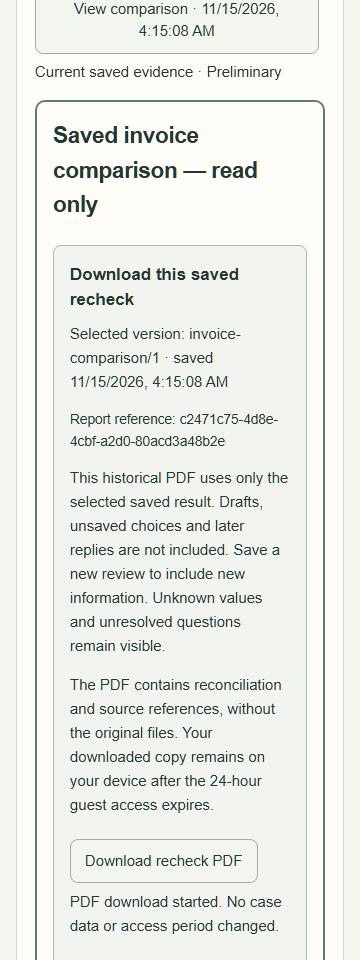
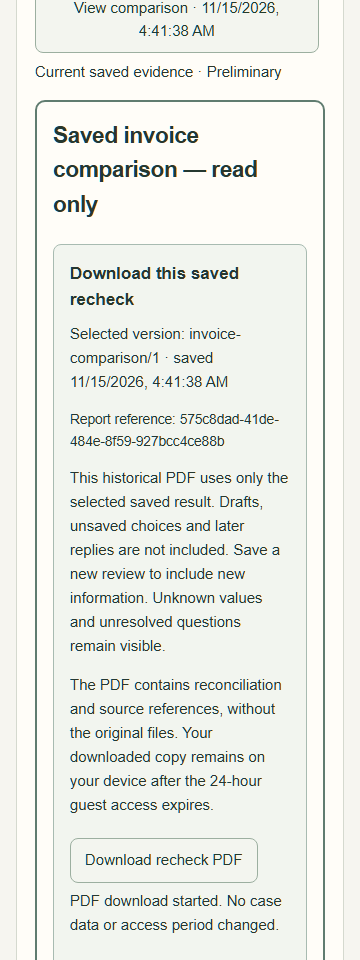
docs: record verified public PDF release and download evidence

diff --git a/planning/STAGE_9_REPORT.md b/planning/STAGE_9_REPORT.md
@@ -12,7 +12,7 @@ The initial public runtime before this release is stage 8 SHA `3dba4d1b0d47ad3a3
 
 Local Python regression: **411 passed** (18.92 s), including 10 PDF unit tests. Ledger/normalization/demo coverage is **99.86%**; this coverage figure does not claim whole-application coverage. Full real PostgreSQL/private-object integration: **26 passed** (202.73 s), including three PDF access/immutability/revocation tests. After tightening UUID validation, the three export integration tests passed again (27.85 s), including malformed IDs and rejection of client-supplied totals. Production web build, mypy (38 source files), Ruff lint/format, frontend type/format checks and specification integrity passed. The production Docker image was checked without development dependencies: ReportLab and its bundled font are available.
 
-Guest browser regression: **12 passed** (3.1 min), covering actual PDF downloads and content inspection at **360/768/1440 px**. At every width, the test downloads the initial saved report, recovers from a failed ticket request, downloads the completed comparison, then re-exports the original after later replies/files/calculation and verifies unchanged historical text. All three final browser screenshots were visually inspected: [360](screenshots/stage9/pdf-download-guest-360.png), [768](screenshots/stage9/pdf-download-guest-768.png), [1440](screenshots/stage9/pdf-download-guest-1440.png).
+Guest browser regression: **12 passed** (3.1 min), covering actual PDF downloads and content inspection at **360/768/1440 px**. At every width, the test downloads the initial saved report, recovers from a failed ticket request, downloads the completed comparison, then re-exports the original after later replies/files/calculation and verifies unchanged historical text. The linked screenshots now show the final public acceptance run, and all three were visually inspected: [360](screenshots/stage9/pdf-download-guest-360.png), [768](screenshots/stage9/pdf-download-guest-768.png), [1440](screenshots/stage9/pdf-download-guest-1440.png).
 
 Existing demo regression: **34 passed, 2 intentionally skipped** (1.3 min); the real 55-second delayed-backend check runs once on desktop, while bounded retry behaviour is checked at every width. HTTP smoke passed against actual FastAPI and the built Next.js BFF, including FIN-16 $7,000 -> $5,000.
 
@@ -20,11 +20,12 @@ New checks use actual parsed synthetic documents and saved normalization/ledger 
 
 Examples (all clearly fictional, not real financial records):
 
+- [Recheck downloaded through the public website](../output/pdf/renotrace-fictional-public-recheck.pdf): 10 pages, including the retained unresolved-question history and both saved financial bases. This is the actual public browser download, not a locally rebuilt substitute.
 - [Initial saved calculation](../output/pdf/renotrace-fictional-snapshot.pdf).
 - [Completed recheck](../output/pdf/renotrace-fictional-comparison.pdf).
 - [Long-layout stress example](../output/pdf/renotrace-fictional-long.pdf): unverified added layout rows deliberately remain Unknown; this is pagination evidence, not an additional financial acceptance fixture.
 
-All examples are generated with production `render_pdf`, rendered using Poppler and inspected as page images: initial report **3 pages**, comparison **7 pages**, long-layout stress **19 pages**. Long tables repeat headers, long replies continue across pages, and historical bases remain separate. Intermediate PNG/contact sheets live in ignored `tmp/pdfs`; selected final captures are in [stage 9 screenshots](screenshots/stage9/). During validation, a ReportLab exception-wrapping incompatibility in the page bound was corrected and covered by a regression test. Browser error assertions were narrowed to the relevant error region to avoid Next.js's separate route announcer.
+The local QA examples use production `render_pdf`, were rendered with Poppler and inspected as page images: initial report **3 pages**, comparison **7 pages**, long-layout stress **19 pages**. The actual public downloads were also rendered and inspected: initial report **3 pages**, final recheck **10 pages**. Long tables repeat headers, long replies continue across pages, and historical bases remain separate. Intermediate PNG/contact sheets live in ignored `tmp/pdfs`; selected final captures are in [stage 9 screenshots](screenshots/stage9/), including the public [initial report](screenshots/stage9/public-initial-pdf-page-1.png) and recheck [first](screenshots/stage9/public-recheck-pdf-page-1.png)/[second](screenshots/stage9/public-recheck-pdf-page-2.png) pages. During validation, a ReportLab exception-wrapping incompatibility in the page bound was corrected and covered by a regression test. Browser error assertions were narrowed to the relevant error region to avoid Next.js's separate route announcer.
 
 ## Manual scenario
 
@@ -60,6 +61,9 @@ pdftoppm -r 100 -png output/pdf/renotrace-fictional-comparison.pdf tmp/pdfs/comp
 Public mode does not start local servers:
 
 ```powershell
+Remove-Item Env:GUEST_LOCAL_DB -ErrorAction SilentlyContinue
+$env:GUEST_API_URL='https://renotrace-api.onrender.com'
+.\scripts\uv.ps1 run --locked pytest tests/integration/test_guest_pdf_exports.py -k original_and_pinned -q
 $env:RENOTRACE_BASE_URL='https://renotrace.vercel.app'
 npm run test:guest -- --grep 'recheck corrected' --timeout=600000
 npm run test:remote
@@ -71,4 +75,12 @@ This is an English USD saved-evidence report, not independent authentication or 
 
 ## Release gate
 
-Implementation and local acceptance are complete. CI and public deployment remain pending; do not treat local PDFs as public-release evidence. The built-in browser controller was rechecked and returns `Trusted RPC service is not configured: browser`, so hosting buttons may require the owner's manual action after CI passes. The release record will include the exact checked SHA, hosting confirmation and independently downloaded public PDF. No database migration is needed for this release.
+Implementation SHA: `bd8e80ceb704f563fa7290c1c836a8ab2b0ee296` (`feat: export frozen reconciliations as source-linked PDF reports`), pushed to main. [CI run 43652655890](https://github.com/IliasGalikhanov/renotrace/actions/runs/43652655890) passed on **Linux and Windows**. Linux logs confirm 411 Python tests, 99.86% domain/demo coverage, 34 demo browser tests, 26 integration tests (150.35 s), 12 guest browser tests (2.7 min), production Docker build and health checks.
+
+The owner confirmed **Render Live** for the checked SHA on 2026-11-15. Independent HTTPS checks confirmed healthy `/healthz`, OpenAPI **0.9.0** and both PDF routes at `https://renotrace-api.onrender.com`. The public export integration journey passed: **1 passed, 2 local-only tests deselected, 328.12 s**. It generated and inspected actual initial/comparison PDFs, verified pinned reply versions and unchanged old exports after later replies/files, checked one-use and purpose-isolated tickets, rejected malformed/foreign/draft selections and client-supplied totals, and denied access after deletion. Its synthetic guest cases were deleted. The two expiry/revocation simulations remain local/CI evidence and were not run against the production database. Local test containers were stopped while the public check continued; no volumes were removed.
+
+The owner confirmed **Vercel Ready** for the same checked SHA on 2026-11-15. Independent public browser acceptance at `https://renotrace.vercel.app/review` passed without local servers: **3/3 complete PDF journeys on 360/768/1440 px, 14.7 min total** (4.8/4.9/5.0 min), followed by **12/12 public demo regression tests, 45.0 s**. These are whole upload/review/recheck/download journeys, not measurements of PDF-generation time. They verify $6,200 -> $5,000 with unchanged P=$1,200/R=$5,000, ticket-error retry, old-report immutability after newer evidence, actual browser downloads, responsive layout, and deletion of each synthetic test case. Demo regression includes FIN-01/11/16, Reset, Unknown and separate browser contexts. Local services remained stopped.
+
[1 lines of base64/hex data omitted]
+
+The built-in browser controller returns `Trusted RPC service is not configured: browser`, so Render/Vercel status and selected commit are owner-confirmed; actual HTTPS behaviour and downloads were independently tested with Playwright/HTTP. No database migration, environment change or paid addition was needed. Expiry/revocation races are covered locally and in CI; this release did not repeat a 24-hour production expiry or backend-sleep experiment. The application remains deployed at the implementation SHA above; subsequent report/PDF/screenshot commits do not change the live runtime. Stage 9 acceptance is complete; no next-stage features were added.

diff --git a/README.md b/README.md
@@ -14,7 +14,7 @@ Guest reviews now retain stable question cards, owner-reported contractor replie
 
 **Recheck with new information** starts from a selected saved calculation. Review labelled invoice positions or add missed positions with page citations, collect exact reply versions, explicitly confirm a corrected request or identify a separate invoice, and save/run a recheck. Frozen comparisons show changed composition, discounts, reflected payments, conditions and unmatched rows, separately from C/P/R changes. A checked invoice credit can cite an already recorded canonical payment without counting it twice. Lower totals do not establish savings or automatically resolve questions. Existing sources and an explanation alone can be rechecked without a new PDF. See the [stage 8 contract](planning/RECHECK_CONTRACT.md) and [stage 8 report](planning/STAGE_8_REPORT.md) for recognition limits, tests and deployment status.
 
-Stage 9 adds **Download calculation PDF** and **Download recheck PDF** inside selected saved results. Reports use immutable snapshots and pinned reply versions, include source excerpts/checksums and separate evidence/owner decisions, and never rerun the financial algorithms. The backend generates real PDFs in memory; one-use tickets download directly without the Vercel binary limit. Downloaded copies remain after the 24-hour guest access ends. See the [PDF contract](planning/PDF_EXPORT_CONTRACT.md), [stage 9 report](planning/STAGE_9_REPORT.md) and [fictional example](output/pdf/renotrace-fictional-comparison.pdf).
+Stage 9 adds **Download calculation PDF** and **Download recheck PDF** inside selected saved results. Reports use immutable snapshots and pinned reply versions, include source excerpts/checksums and separate evidence/owner decisions, and never rerun the financial algorithms. The backend generates real PDFs in memory; one-use tickets download directly without the Vercel binary limit. Downloaded copies remain after the 24-hour guest access ends. See the [PDF contract](planning/PDF_EXPORT_CONTRACT.md), [stage 9 report](planning/STAGE_9_REPORT.md) and [fictional example downloaded from the public site](output/pdf/renotrace-fictional-public-recheck.pdf).
 
 Implemented: an interactive English synthetic demo, a restricted public FastAPI demo API, a server-side Next.js BFF, a pure Python ledger, and a pure structured-history normalization module. Normalization selects confirmed estimate versions, removes included changes, filters payments/refunds, reconciles bank identities, applies explicit user decisions, and returns unresolved questions and provenance. Stage 3 adds typed billing, comparable cumulative valuations, targeted credit notes, explicit partial payment/refund allocations, invoice balances and unallocated cash. Both domain modules run without a browser, AI, database, or network. The demo calls them on the server for every recalculation; browser code only formats returned amounts.
 

diff --git a/planning/DEPLOYMENT.md b/planning/DEPLOYMENT.md
@@ -4,6 +4,8 @@ See [stage 9 report](STAGE_9_REPORT.md) for the latest release gate. Stage 5 bel
 
 ## Stage 9 PDF release
 
+Published application SHA: `bd8e80ceb704f563fa7290c1c836a8ab2b0ee296`. Frontend: <https://renotrace.vercel.app/review>; backend: <https://renotrace-api.onrender.com>. The owner confirmed Render Live and Vercel Ready on 2026-11-15. OpenAPI reports `0.9.0`; public PDF acceptance and its verification boundaries are recorded in the [stage 9 release report](STAGE_9_REPORT.md#release-gate). Later report/screenshot commits do not change this deployed runtime. Existing Vercel Hobby, Render Free and Supabase Free resources are reused without paid additions.
+
 No schema migration is needed: the existing project-owned single-use tickets table also carries PDF-only tickets. No new secret, service or paid resource is needed. The locked production dependencies now include ReportLab; the backend package includes the font/license. Keep existing `BACKEND_URL`, `FRONTEND_ORIGIN`, host/port and health checks. PDF binary responses go directly from FastAPI to the browser; the Vercel BFF handles only the small owner-authorized ticket response.
 
 After CI passes, deploy the exact checked SHA to Render first. Verify `/healthz`, OpenAPI `0.9.0`, `POST /api/guest/projects/{project_id}/exports` and `GET /api/guest/export`; then deploy the same SHA to Vercel using existing production variables. Keep auto-deploy disabled. Run the public guest flow with real downloads at all three widths and the existing demo regression, using the commands in the [stage 9 report](STAGE_9_REPORT.md#reproduce-checks). Inspect the downloaded PDF contents and rendered pages, not only HTTP status. Do not set `GUEST_LOCAL_DB` for remote testing.
